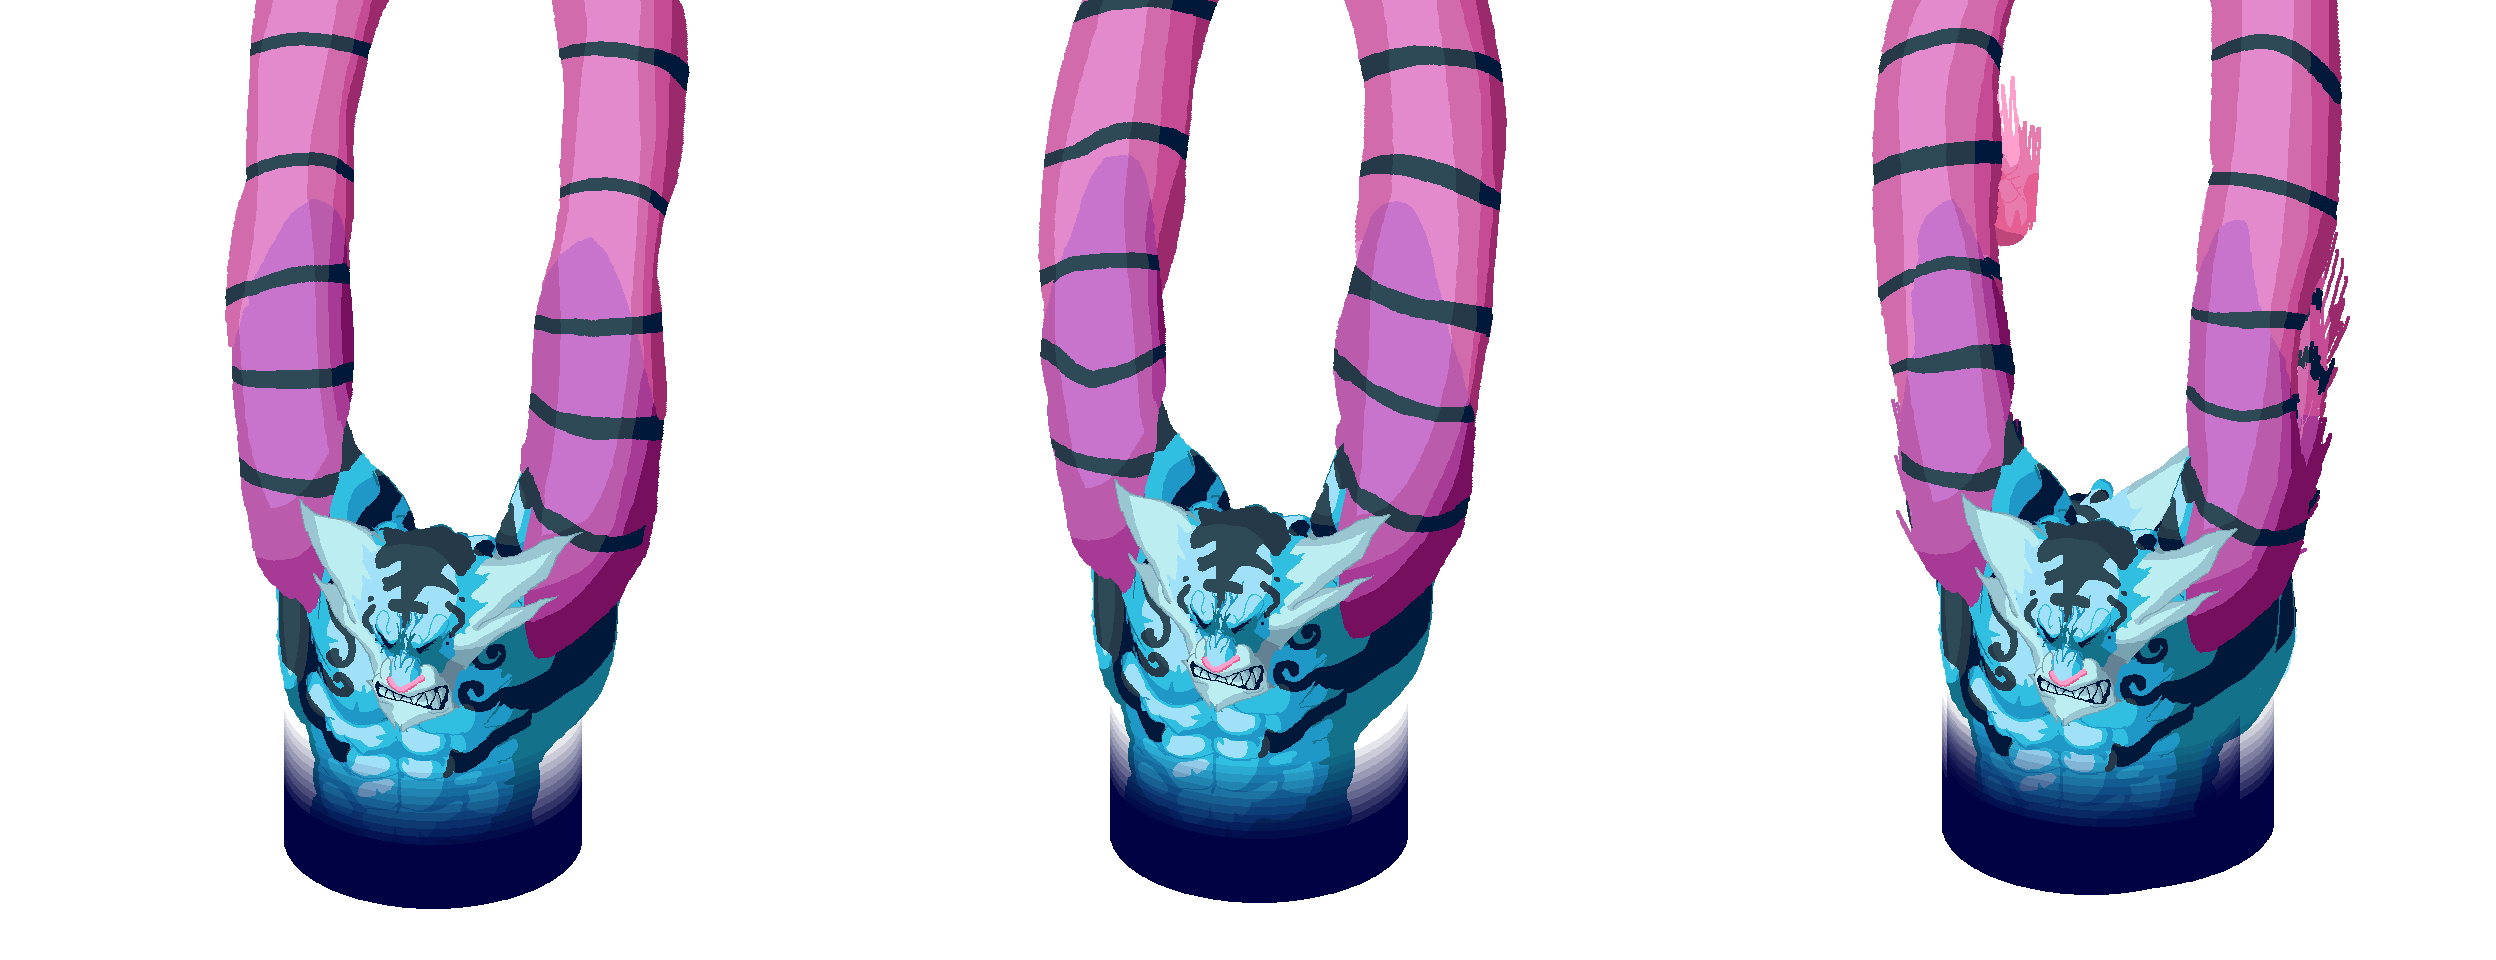
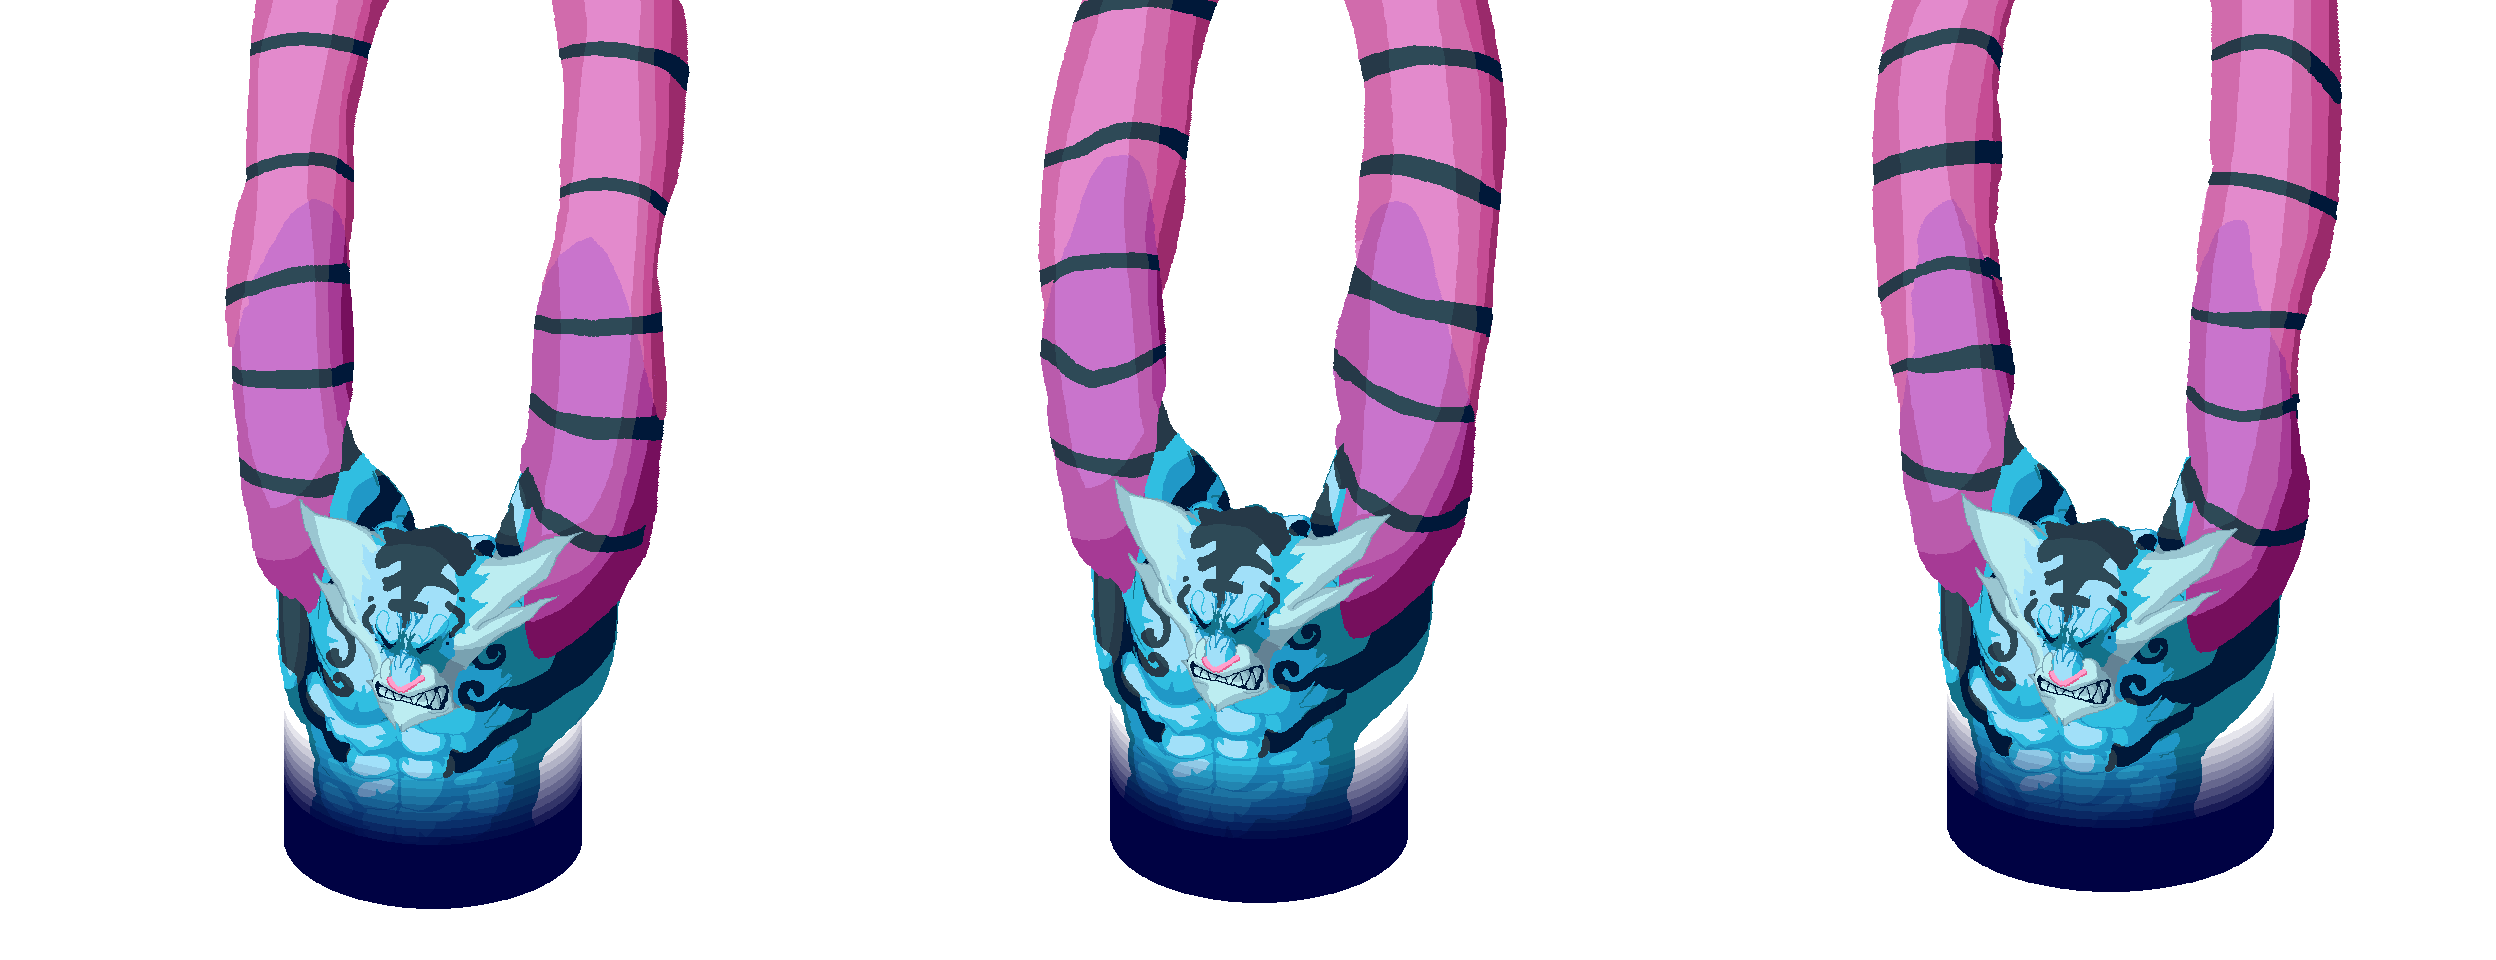
fixed dash animation and added better pummel

diff --git a/PunchBoy/Assets/Scripts/NewKing/AttackManager.cs b/PunchBoy/Assets/Scripts/NewKing/AttackManager.cs
@@ -269,6 +269,7 @@ public class AttackManager : MonoBehaviour
     IEnumerator CoPummel()
     {
         if (!animationBuffer) {
+            GameObject.Find("TigerSpunch_AlexRowley_0").transform.position = new Vector3(-10.71f,2.3f,0);
             animator.SetTrigger("PummelStart");
             animationBuffer = true;
         }
@@ -282,6 +283,7 @@ public class AttackManager : MonoBehaviour
         yield return new WaitForSeconds(secondsBetweenAttack);
         SetAttacking(false);
         animator.SetTrigger("PummelEnd");
+        GameObject.Find("TigerSpunch_AlexRowley_0").transform.position = new Vector3(-10.71f, 1.27f, 0);
         animationBuffer = false;
         //print("PUMMEL END");
 
